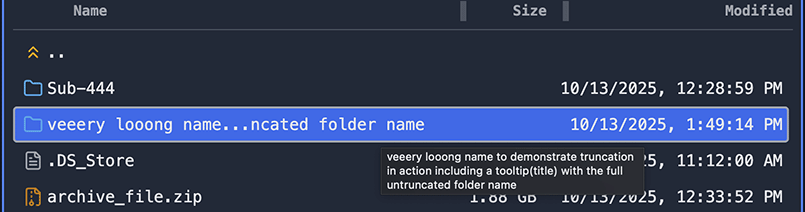
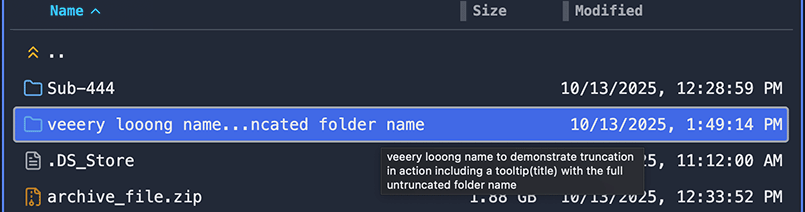
Updating Readme and Help Modal

diff --git a/packages/client/src/components/modals/HelpModal.jsx b/packages/client/src/components/modals/HelpModal.jsx
@@ -127,6 +127,15 @@ const HelpModal = ({ isVisible, onClose }) => {
               (...), ensuring you can still see the beginning and end of the
               name.
             </p>
+            <p>
+              <strong>Sorting</strong>: You can sort the list by clicking on the
+              column headers (<strong>Name</strong>, <strong>Size</strong>,{" "}
+              <strong>Modified</strong>). Clicking the same column header
+              toggles the sort direction between ascending (up arrow) and
+              descending (down arrow).{" "}
+              <strong>Note: The item selection remains preserved</strong> when
+              changing the sort order.
+            </p>
             <img
               src={folderTruncationScreenshot}
               alt="Folder Truncation Screenshot"

diff --git a/README.md b/README.md
@@ -86,6 +86,8 @@ A proxy is configured in the Vite settings (packages/client/vite.config.js) to f
 
 - **File & Folder Listing**: Each panel lists files and folders. Long names are dynamically truncated. Icons next to each name (folder icon for folders, text file icon for text files, image icon for images, etc.) help identify the type.
 
+  - **Column Sorting:** You can sort the list by clicking on the column headers (Name, Size, Modified). Clicking the same column cycles through ascending (up arrow) and descending (down arrow) order. The selected files will remain selected even after sorting.
+
   ![Folder Truncation Screenshot](packages/client/screenshots/folder-truncation.png)
   ![File Truncation Screenshot](packages/client/screenshots/file-truncation.png)
 
